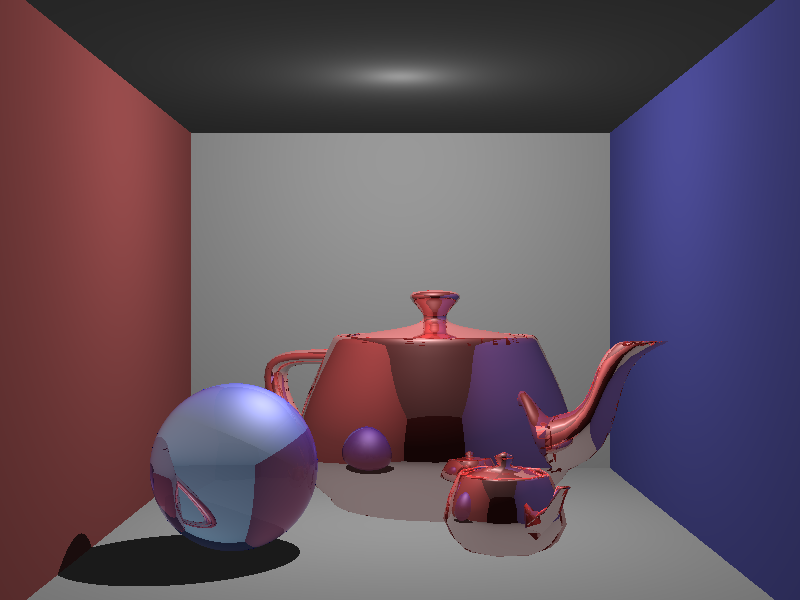
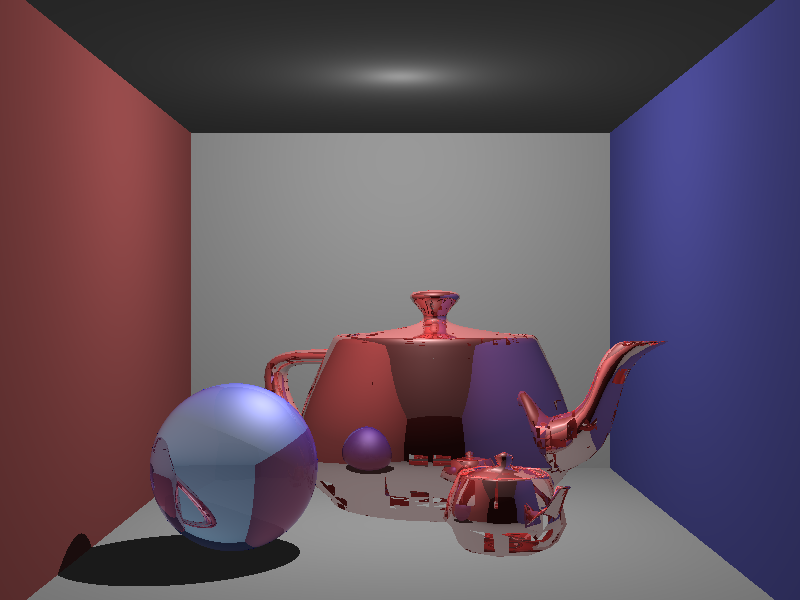
Weird bug

diff --git a/BHRayTracer/TriObj.cpp b/BHRayTracer/TriObj.cpp
@@ -129,6 +129,7 @@ bool TriObj::TraceBVHNode(Ray const &ray, HitInfo &hInfo, int hitSide, unsigned 
 		auto elements = bvh.GetNodeElements(nodeID);
 		auto elementCount = bvh.GetNodeElementCount(nodeID);
 		bool bHit = false;
+		
 #ifdef SHOW_BOUNDINGBOX
 		bHit = GetBoundBox().IntersectRayWithHitInfo(ray, hInfo);
 #else
@@ -150,25 +151,40 @@ bool TriObj::TraceBVHNode(Ray const &ray, HitInfo &hInfo, int hitSide, unsigned 
 		Box child2 = Box(bvh.GetNodeBounds(child2Id));
 		float tmin1 = BIGFLOAT;
 		float tmin2 = BIGFLOAT;
-		bool bChild1Hit = child1.IntersectRay(ray, BIGFLOAT, tmin1);
-		bool bChild2Hit = child2.IntersectRay(ray, BIGFLOAT, tmin2);
+		bool bChild1Hit = child1.IntersectRay(ray, hInfo.z, tmin1);
+		bool bChild2Hit = child2.IntersectRay(ray, hInfo.z, tmin2);
 
 		if (tmin1 < tmin2) {
-			if (tmin1 < hInfo.z&& bChild1Hit) {
+			if (bChild1Hit) {
 				if (TraceBVHNode(ray, hInfo, hitSide, child1Id)) return true;
-				if (tmin2 < hInfo.z && bChild2Hit) {
+				if (bChild2Hit) {
 					return TraceBVHNode(ray, hInfo, hitSide, child2Id);
 				}
 			}
 		}
-		else if (tmin1 >= tmin2) {
-			if (tmin2 < hInfo.z && bChild2Hit) {
+		else if (tmin1 > tmin2) {
+			if (bChild2Hit) {
 				if(TraceBVHNode(ray, hInfo, hitSide, child2Id)) return true;
-				if (tmin1 < hInfo.z  && bChild1Hit) {
+				if (bChild1Hit) {
 					return TraceBVHNode(ray, hInfo, hitSide, child1Id);
 				}
 			}
 		}
+		else {
+			if (bvh.IsLeafNode(bvh.GetFirstChildNode(nodeID)) && bvh.IsLeafNode(bvh.GetSecondChildNode(nodeID))) {
+				auto firstElements = bvh.GetNodeElements(child1Id);
+				auto secondElements = bvh.GetNodeElements(child2Id);
+			}
+			else {
+				if (bChild2Hit) {
+					if (TraceBVHNode(ray, hInfo, hitSide, child2Id)) return true;
+					if (bChild1Hit) {
+						return TraceBVHNode(ray, hInfo, hitSide, child1Id);
+					}
+				}
+			}
+		}
+
 	}
 	return false;
 }
